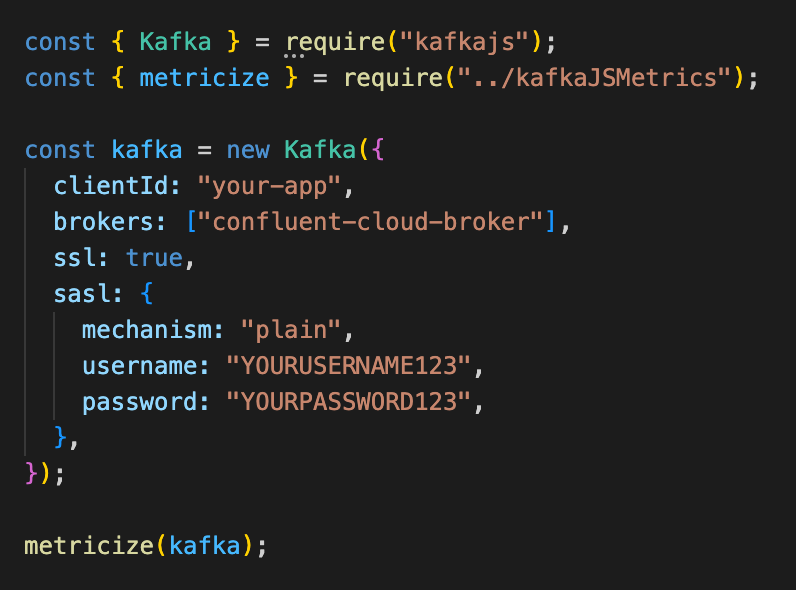
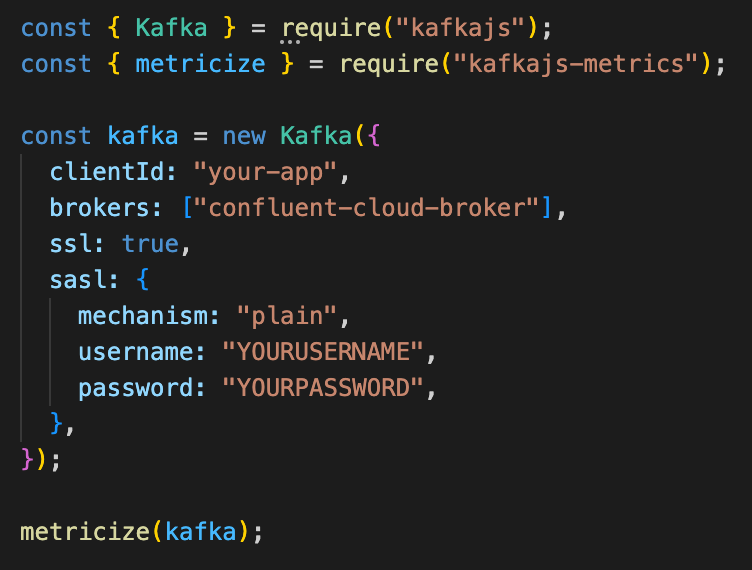
updated require in statements, updated npm package name

diff --git a/README.md b/README.md
@@ -58,10 +58,10 @@ KafkaJSMetrics works with your KafkaJS client. For information on setting up you
 
 ---
 
-Install the kafkajs-metrics-visualizer package from [npm](https://www.npmjs.com/)
+Install the kafkajs-metrics-visualize package from [npm](https://www.npmjs.com/)
 
 ```bash
-npm install kafkajs-metrics-visualizer
+npm install kafkajs-metrics-visualize
 ```
 
 ---
